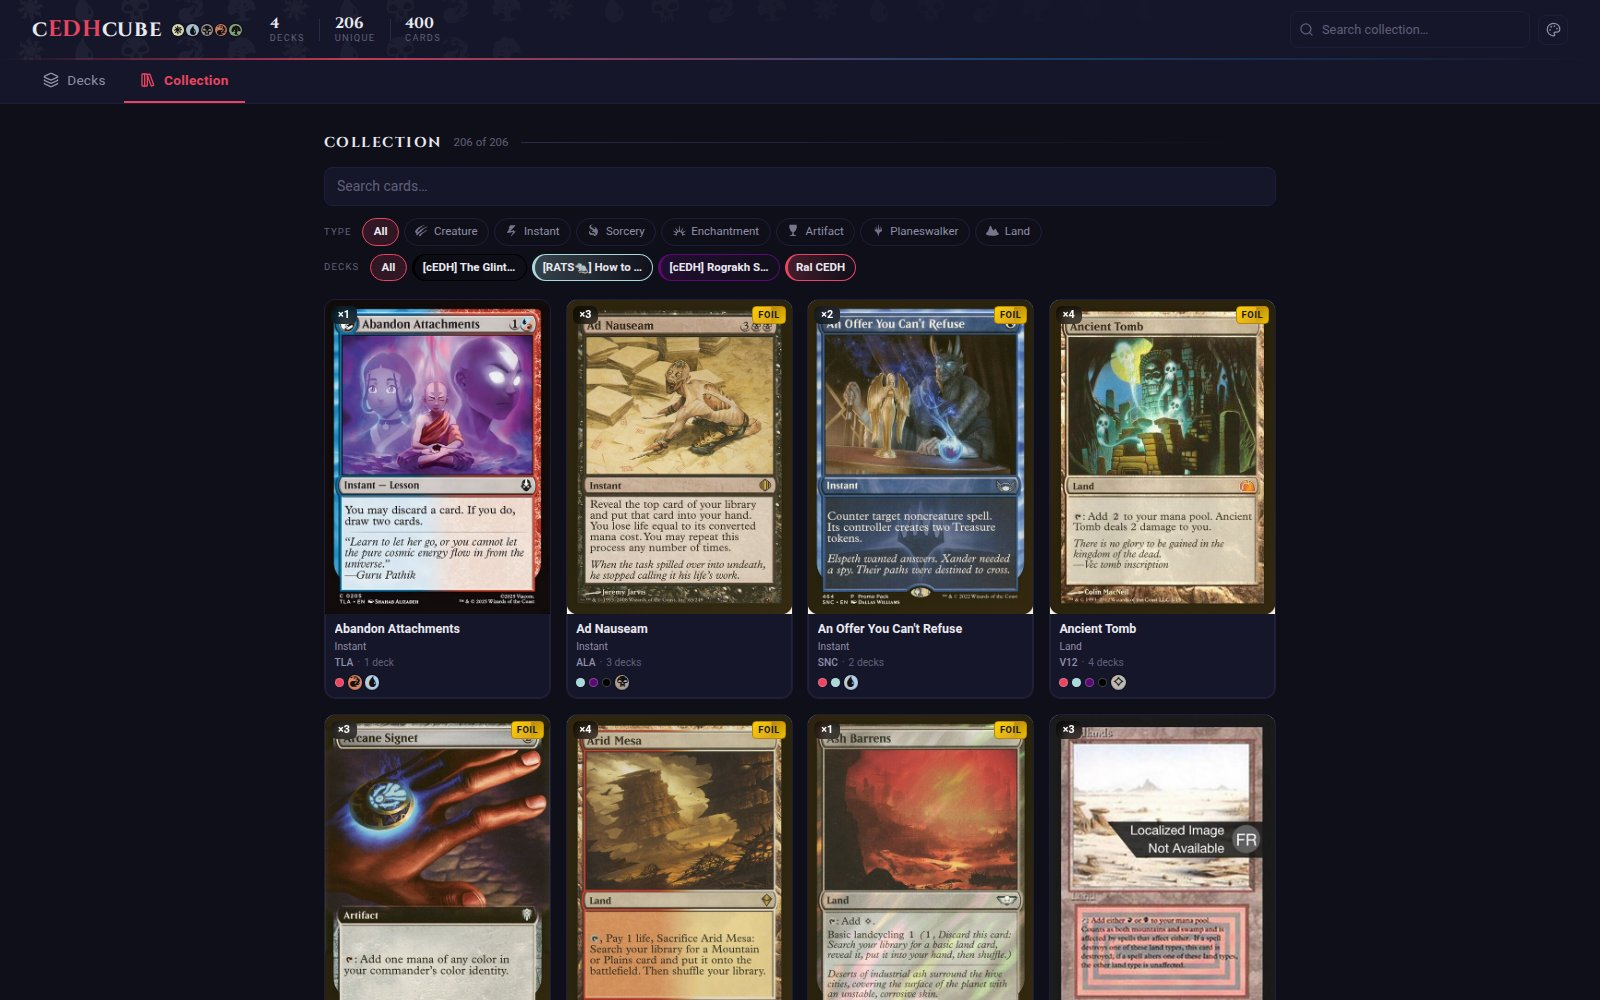
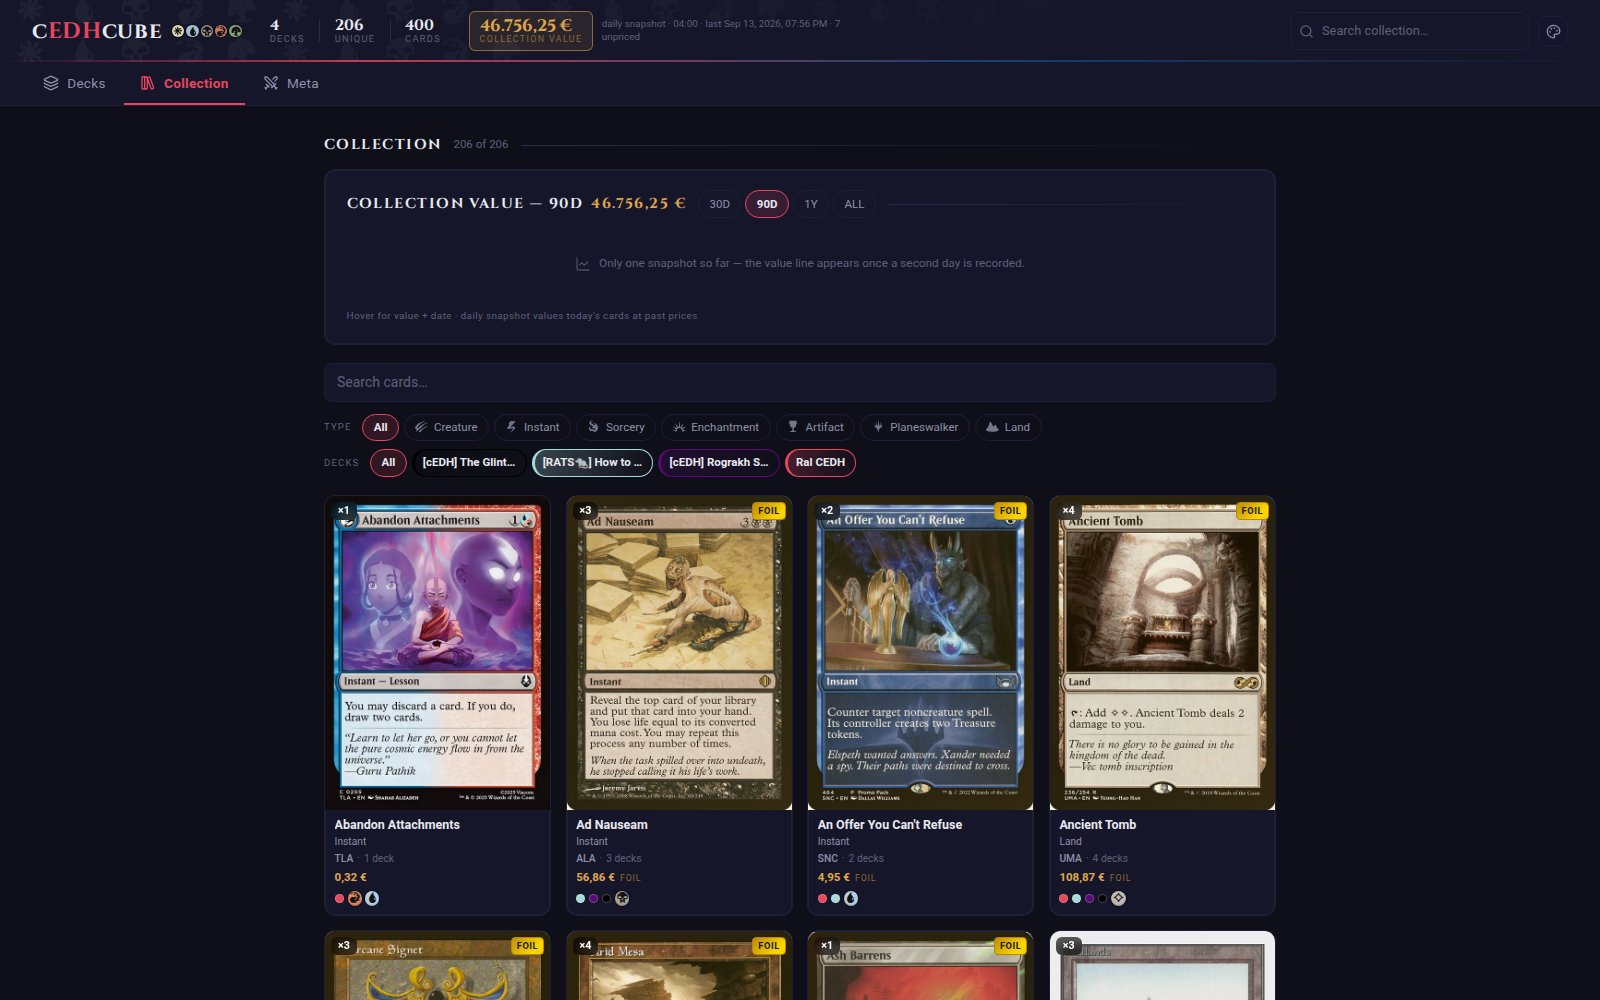
docs: refresh README + screenshots for Meta tab, EUR pricing, and Cybercore theme

diff --git a/README.md b/README.md
@@ -1,6 +1,6 @@
 # cEDHcube
 
-A clean, artsy, single-page app for tracking Magic: The Gathering Commander decks and your card collection across them. Built with a **FastAPI** backend and a **React + Vite + TypeScript + Tailwind** frontend, with live data pulled from Scryfall and Moxfield.
+A clean, artsy, single-page app for tracking Magic: The Gathering Commander decks, your card collection across them, and how those decks stack up against the competitive meta. Built with a **FastAPI** backend and a **React + Vite + TypeScript + Tailwind** frontend, with live data from Scryfall, Moxfield, and a EUR paper-value engine.
 
 This README is a visual tour of every major screen and feature.
 
@@ -8,7 +8,7 @@ This README is a visual tour of every major screen and feature.
 
 ## Decks tab
 
-The landing view. The header carries the wordmark, a live stat strip (deck / unique-card / total-card counts), a global collection search, and a theme switcher — all using authentic MTG mana symbols (via `mana-font`) instead of emoji. Below it: the Moxfield import box, the manual deck-creation box, and the deck list itself.
+The landing view. The header carries the wordmark, a live stat strip (deck / unique-card / total-card counts), a **Collection Value** HUD (your whole collection at current EUR paper value, refreshed by a daily snapshot), a global collection search, and a theme switcher — all using authentic MTG mana symbols (via `mana-font`) instead of emoji. Below it: the Moxfield import box, the manual deck-creation box, and the deck list itself.
 
 Each deck row shows its commander art (or **both** commander portraits side-by-side for partner/co-commander decks), name, color identity pips, and a live mini mana curve.
 
@@ -18,7 +18,7 @@ Each deck row shows its commander art (or **both** commander portraits side-by-s
 
 ## Collection tab
 
-Every unique card across all your decks, in a card-frame-styled grid: quantity badge, foil badge (shimmering gold), set code, color identity, and small dots showing which decks contain the card. Filter by card type (using real mana-font type icons) or by individual deck.
+Every unique card across all your decks, in a card-frame-styled grid: quantity badge, foil badge (shimmering gold), set code, color identity, **current EUR price**, and small dots showing which decks contain the card. Filter by card type (using real mana-font type icons) or by individual deck. Above the grid sits the **Collection Value** history panel — a hand-rolled SVG line chart tracking your total value over time, with one line per deck (30D / 90D / 1Y / ALL windows, hover for exact values).
 
 ![Collection tab](docs/screenshots/02-collection-tab.jpg)
 
@@ -36,19 +36,23 @@ The search box in the header works from anywhere in the app: typing a card name 
 
 ---
 
+## Valuing your collection
+
+EUR paper prices ride the existing Scryfall fetches — no extra calls. Scryfall's `prices` come back on every card the app already requests, so each deck card and collection entry shows a live unit price (foil-aware, with the other finish as fallback), and every deck, the header HUD, and the collection grid surface their paper value. A daily snapshot (04:00, plus catch-up at startup) records each card's price into `price_history`, powering the collection value chart above and the per-card sparkline in the card detail modal. Prices are deliberately EUR-only and surface with a distinct "money" accent, not the theme accent.
+
 ## Theming
 
-Nine built-in color themes — Default, Gruvbox, Dracula, Nord, One Dark, Monokai, and Asimov match their editor namesakes' authentic palettes, plus two soft light themes, **Blossom** (pink) and **Lilac** (lavender). Switchable from the header without a page reload; preference is remembered in `localStorage`. Mana symbols always keep their canonical WUBRG colors regardless of theme — matching every real MTG product.
+Ten built-in color themes — Default, Gruvbox, Dracula, Nord, One Dark, Monokai, and Asimov match their editor namesakes' authentic palettes, plus two soft light themes, **Blossom** (pink) and **Lilac** (lavender). The tenth, **Cybercore**, is a deliberately rough, nostalgic Y2K/old-internet skin: midnight-void background, Press Start 2P pixel accent + VT323 CRT monospace, beveled Win95-style buttons, an OS-window title bar, glitch wordmark, and scanline/dither effects. Switchable from the header without a page reload; preference is remembered in `localStorage`. Mana symbols always keep their canonical WUBRG colors regardless of theme — matching every real MTG product.
 
 ![Theme switcher open](docs/screenshots/05-theme-switcher.jpg)
 
-![Lilac theme applied](docs/screenshots/06-theme-lilac.jpg)
+![Cybercore theme applied](docs/screenshots/06-theme-cybercore.jpg)
 
 ---
 
 ## Deck modal
 
-Click any deck to open its full view: mana curve chart, commander section, a searchable card list with per-card foil toggle and quantity editor, and an "Add cards" box that resolves pasted card lists against Scryfall.
+Click any deck to open its full view: mana curve chart, commander section, a searchable card list with per-card foil toggle, quantity editor and price, and an "Add cards" box that resolves pasted card lists against Scryfall.
 
 **Partner / co-commander decks** are fully supported — when a deck has two commanders (Partner, Partner With, Friends Forever, or Choose a Background), both are shown together under "Commanders" with their portraits and names.
 
@@ -64,9 +68,17 @@ Click "Change" to open the picker. You can select **up to two** commanders from 
 
 ## Card detail modal
 
-Clicking any card in the Collection tab opens a detail view: full card art, localized names (English / Deutsch / 日本語), which decks it's currently in, full oracle text (with real mana-symbol pips inline, e.g. `{T}`, `{2}`), and official Scryfall rulings.
+Clicking any card in the Collection tab opens a detail view: full card art, a **price box** (unit price, owned quantity, and the product) plus a **price-history sparkline**, localized names (English / Deutsch / 日本語), which decks it's currently in, full oracle text (with real mana-symbol pips inline, e.g. `{T}`, `{2}`), and official Scryfall rulings.
 
 ![Card detail modal](docs/screenshots/09-card-detail-modal.jpg)
+
+---
+
+## Meta tab
+
+Pick a deck and see how its commander(s) are performing on **edhtop16** — real cEDH tournament results live from the competitive meta. The toolbar lets you choose the deck, how many top decks to pull, the time window (3 months / 1 month / 6 months / 1 year / post-ban / all time) and a minimum event size; the overview lists recent top placements (standing, player, tournament, wins). Click an entry to open a **three-column side-by-side comparison** against your own list — *Meta plays, you don't* / *You play, meta doesn't* / *In both* — with `art_crop` card thumbnails and a hover full-card preview. A **Meta stock list** view aggregates what every analyzed top-N deck runs, flags the cards you're missing, and lets you toggle *only show what I'm missing*.
+
+![Meta tab](docs/screenshots/10-meta-tab.jpg)
 
 ---
 
@@ -75,11 +87,13 @@ Clicking any card in the Collection tab opens a detail view: full card art, loca
 | Layer | Stack |
 |---|---|
 | Backend | FastAPI + SQLite, single `app.py` route file, `database.py` for all SQL |
-| Card data | Scryfall API (lookup, images, localization, rulings) |
+| Card data | Scryfall API (lookup, images, localization, rulings, prices) |
 | Deck import | Moxfield API (via `cloudscraper` to get past its Cloudflare challenge) |
+| Meta data | edhtop16 GraphQL API (competitive cEDH results, proxied server-side) |
 | Frontend | React + Vite + TypeScript, Tailwind v4 |
+| Charts | Hand-rolled SVG (mana curve + price history/sparklines) — no charting library |
 | Icons/symbols | `mana-font` (official-style WUBRG mana glyphs), `lucide-react` (UI icons) |
-| Typography | Cinzel (headings/wordmark), system sans-serif (body) |
+| Typography | Cinzel (headings/wordmark), system sans-serif + Press Start 2P / VT323 (Cybercore) |
 
 ## Running locally
 
@@ -106,4 +120,4 @@ npx playwright install chromium    # first time only
 node shoot.js
 ```
 
-Screenshots are written to `docs/screenshots/`.
+Screenshots are written to `docs/screenshots/` as PNGs (convert to the JPEGs above with Pillow at quality 85). Note the price-history shots need two or more recorded snapshots to render a line — run once, let a second day's snapshot accumulate, then re-shoot.
